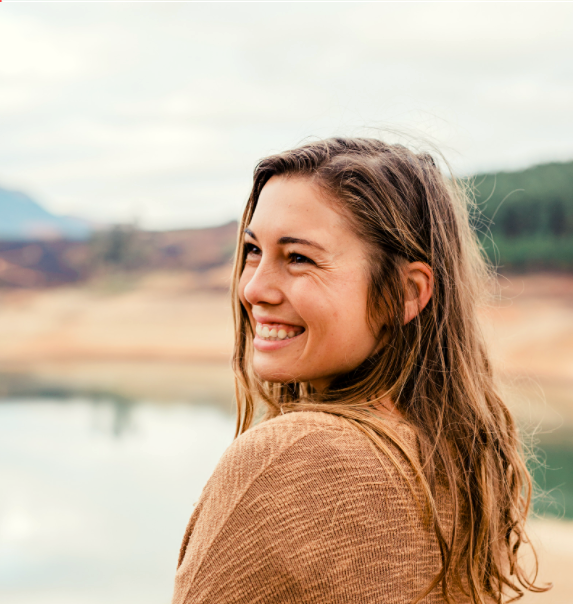
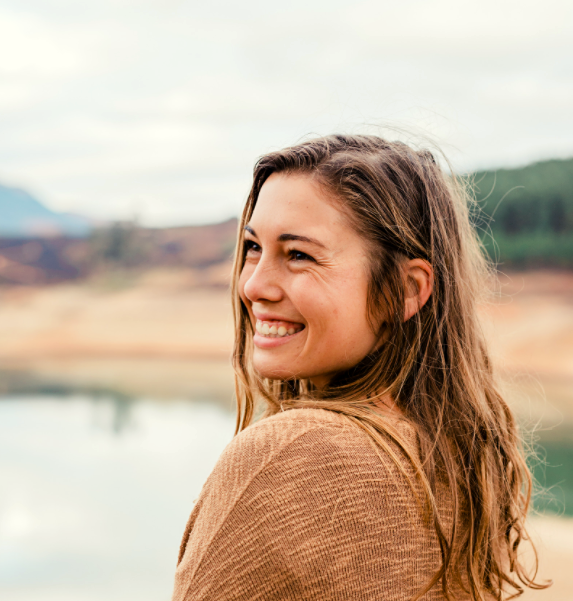
Improved image quality

diff --git a/css/main.css b/css/main.css
@@ -53,7 +53,7 @@ header h2{
 }
 
 #picture{
-	background: url('../img/marike.jpg');
+	background: url('../img/marike1.jpg');
 	height: 537px;
 }
 
